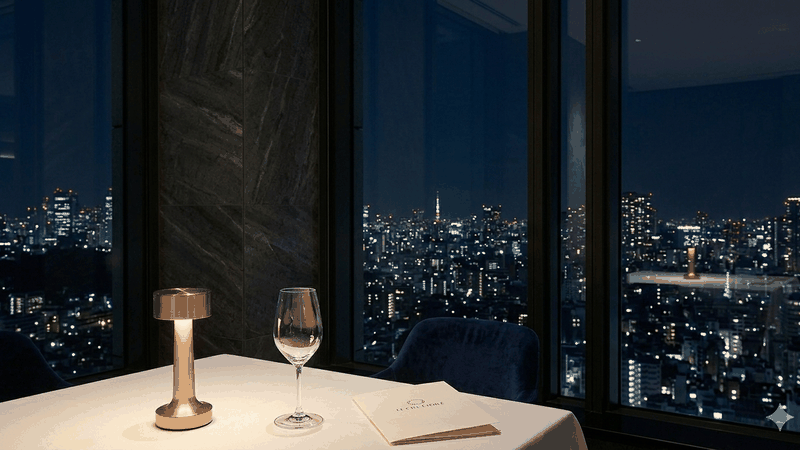
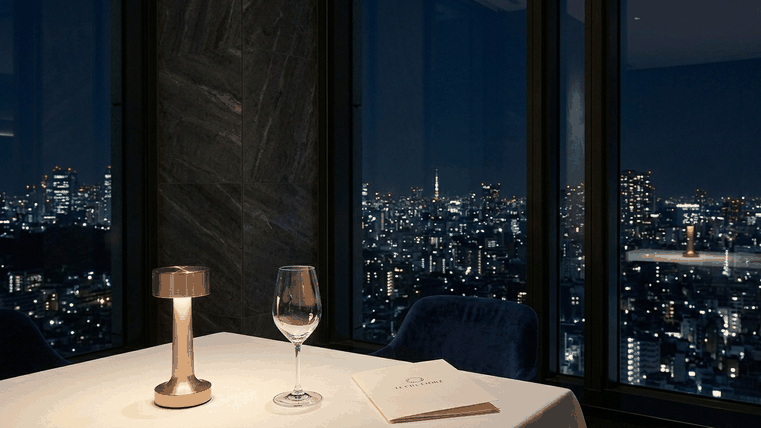
feat: Works に JukuMate 追加 + カード全体クリック化 / LE CIEL サムネ差し替え
- Works.astro: JukuMate エントリ追加（サムネ画像 + 副リンク UI「制作過程を読む」近日公開ステータス）
- Works.astro: stretched-link パターンで 3 カード全体クリック → メインリンク発火（Bootstrap 準拠 a 限定セレクタ）
- updates.js: 「JukuMate の制作プロセス」エントリ追加（近日公開）
- public/works/jukumate.png: LP Hero スクショ新規（1280x720）
- public/works/le-ciel-etoile.png: サムネ差し替え

diff --git a/src/data/updates.js b/src/data/updates.js
@@ -2,6 +2,15 @@
 // note 連載・お知らせ・リリース情報を時系列で管理する
 export const updates = [
   {
+    date: '2026-05-21',
+    category: '制作レポート',
+    title: 'JukuMate の制作プロセス — Turnstile・flatpickr・SP 改行の地雷地帯',
+    excerpt:
+      'Turnstile 401 の真因は PAT 仕様、flatpickr 位置ズレは 2-pass 補正、whitespace-nowrap × SP overflow は md: prefix で解決。本番投入で詰まった 3 つを掘り起こす。',
+    link: '#',
+    status: '近日公開',
+  },
+  {
     date: '2026-05-14',
     category: 'note 連載',
     title: 'Claude Code で AI 社員 4 人を雇って、フリーランス独立を始めた話',
